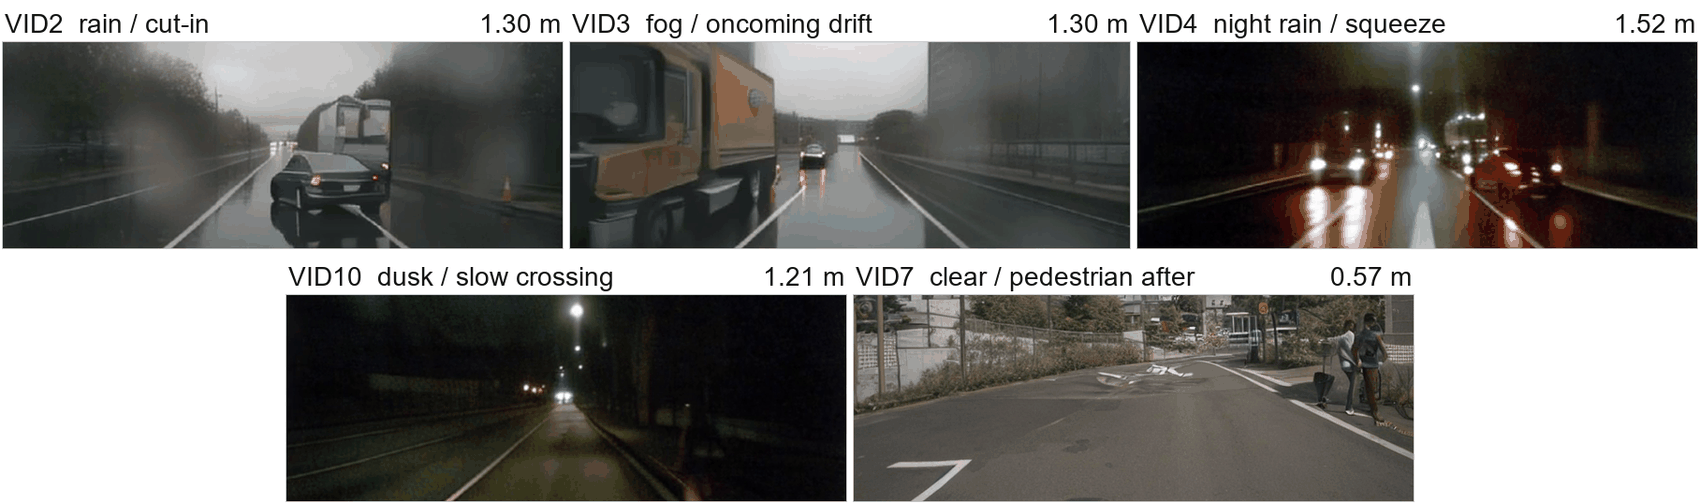
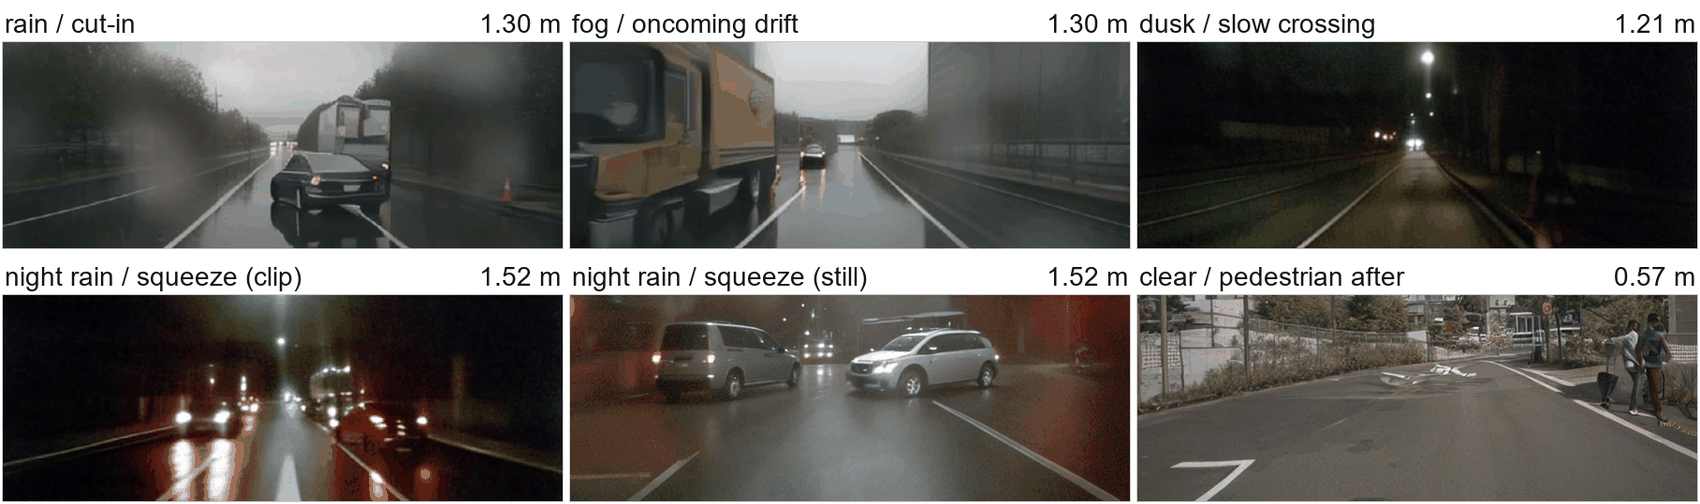
Six-panel qualitative figure; image-backend section removed as a duplicate

diff --git a/index.html b/index.html
@@ -162,40 +162,7 @@
 
     </div>
 
-    <h3>2. The image backend, on the same documents</h3>
-    <p class="note">
-      Each frame is one document rendered by the image backend; the roads, the actors and the
-      weather come from the document, not from a caption.
-    </p>
-
-    <div class="grid two">
-      <figure class="card">
-        <img src="static/images/case1.jpg" alt="Night scene with rain and traffic cones">
-        <p class="cap"><b>Night, rain, cones.</b></p>
-      </figure>
-      <figure class="card">
-        <img src="static/images/case2.jpg" alt="Rain scene with a truck in the row ahead">
-        <p class="cap"><b>Rain, truck in row.</b></p>
-      </figure>
-      <figure class="card">
-        <img src="static/images/case3.jpg" alt="Fog scene with a stalled bus">
-        <p class="cap"><b>Fog, stalled bus.</b></p>
-      </figure>
-      <figure class="card">
-        <img src="static/images/case4.jpg" alt="Night scene with a bicycle">
-        <p class="cap"><b>Night, bicycle.</b></p>
-      </figure>
-      <figure class="card">
-        <img src="static/images/case5.jpg" alt="Sunset scene with backlight and roadworks">
-        <p class="cap"><b>Sunset, backlight.</b></p>
-      </figure>
-      <figure class="card">
-        <img src="static/images/sixview.jpg" alt="Six views of one document, arranged as a grid">
-        <p class="cap"><b>Six views, one document.</b> The same document rendered on all six cameras.</p>
-      </figure>
-    </div>
-
-    <h3>3. The occupancy backend</h3>
+    <h3>2. The occupancy backend</h3>
     <p class="note">
       UniScene's native slot is the layout tensor itself, so the document is compiled straight into it.
     </p>
@@ -215,7 +182,7 @@
       </figure>
     </div>
 
-    <h3>4. Qualitative results</h3>
+    <h3>3. Qualitative results</h3>
     <p>
       The representation can also be used to construct scenes rather than translate them: a conflict
       is specified, simulated, written as a document, and rendered by whichever backend is available.
